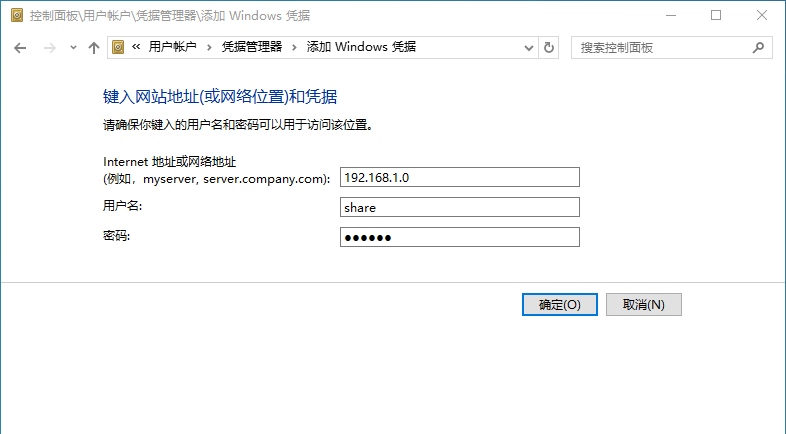
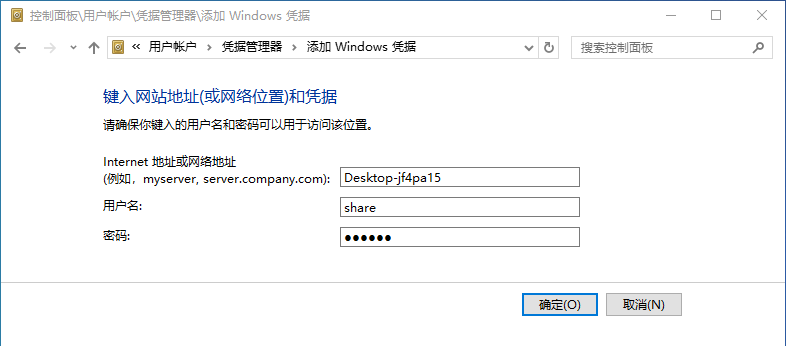
update

diff --git a/doc/Misc/Lab Env/Office/Data Sharing/配置 SMB 文件共享.md b/doc/Misc/Lab Env/Office/Data Sharing/配置 SMB 文件共享.md
@@ -115,6 +115,10 @@ Microsoft 网络客户端：对通信进行数字签名(始终)：已禁用
 
 ![为新用户配置共享权限](./../../../../../image/%E9%85%8D%E7%BD%AE%20SMB%20%E6%96%87%E4%BB%B6%E5%85%B1%E4%BA%AB/%E4%B8%BA%E6%96%B0%E7%94%A8%E6%88%B7%E9%85%8D%E7%BD%AE%E5%85%B1%E4%BA%AB%E6%9D%83%E9%99%90.png)
 
+记住网络路径
+
+![记住网络路径](./../../../../../image/%E9%85%8D%E7%BD%AE%20SMB%20%E6%96%87%E4%BB%B6%E5%85%B1%E4%BA%AB/%E8%AE%B0%E4%BD%8F%E7%BD%91%E7%BB%9C%E8%B7%AF%E5%BE%84.png)
+
 ### 2.4. 访问共享文件
 
 使用客户端
@@ -135,9 +139,9 @@ Microsoft 网络客户端：对通信进行数字签名(始终)：已禁用
 
 ![在此电脑右键映射网络驱动器](./../../../../../image/%E9%85%8D%E7%BD%AE%20SMB%20%E6%96%87%E4%BB%B6%E5%85%B1%E4%BA%AB/%E5%9C%A8%E6%AD%A4%E7%94%B5%E8%84%91%E5%8F%B3%E9%94%AE%E6%98%A0%E5%B0%84%E7%BD%91%E7%BB%9C%E9%A9%B1%E5%8A%A8%E5%99%A8.png)
 
-设置要映射的网络文件夹
+映射网络路径
 
-![设置要映射的网络文件夹](./../../../../../image/%E9%85%8D%E7%BD%AE%20SMB%20%E6%96%87%E4%BB%B6%E5%85%B1%E4%BA%AB/%E8%AE%BE%E7%BD%AE%E8%A6%81%E6%98%A0%E5%B0%84%E7%9A%84%E7%BD%91%E7%BB%9C%E6%96%87%E4%BB%B6%E5%A4%B9.png)
+![映射网络路径](./../../../../../image/%E9%85%8D%E7%BD%AE%20SMB%20%E6%96%87%E4%BB%B6%E5%85%B1%E4%BA%AB/%E6%98%A0%E5%B0%84%E7%BD%91%E7%BB%9C%E8%B7%AF%E5%BE%84.png)
 
 > 网络文件夹格式为
 >

diff --git a/doc/Misc/Lab Env/Maint/USB Boot Makers/Rufus.md b/doc/Misc/Lab Env/Maint/USB Boot Makers/Rufus.md
@@ -1,0 +1,11 @@
+Create bootable USB drives the easy way
+
+## 1. Usage
+
+选择设备和镜像后制作
+
+![选择设备和镜像后制作](./../../../../../image/Rufus/%E9%80%89%E6%8B%A9%E8%AE%BE%E5%A4%87%E5%92%8C%E9%95%9C%E5%83%8F%E5%90%8E%E5%88%B6%E4%BD%9C.png)
+
+---
+
+- [Rufus](https://rufus.ie/en/)
